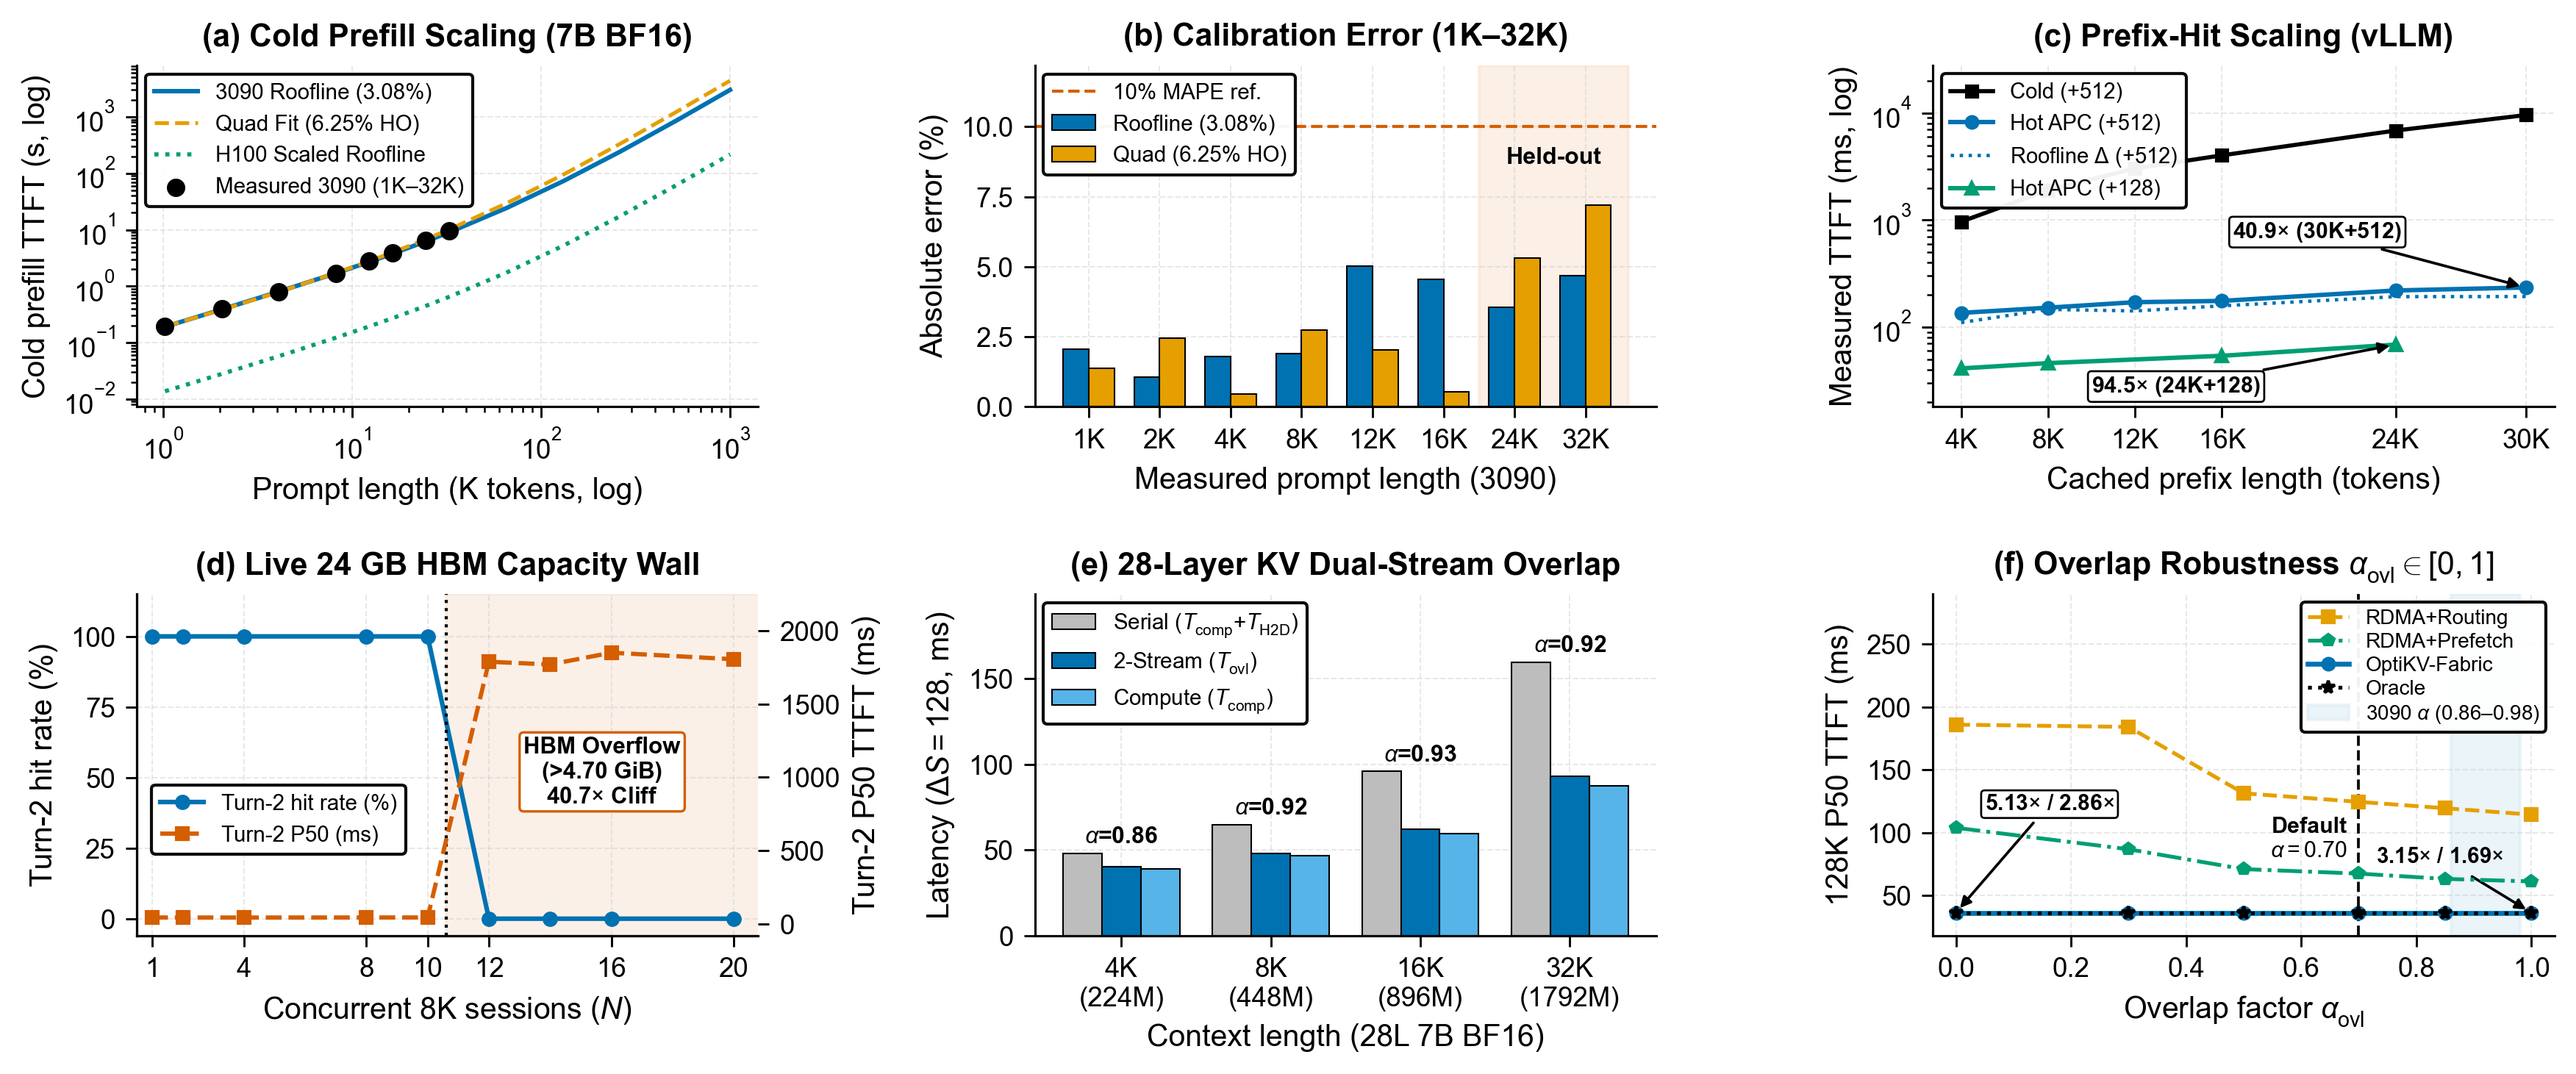
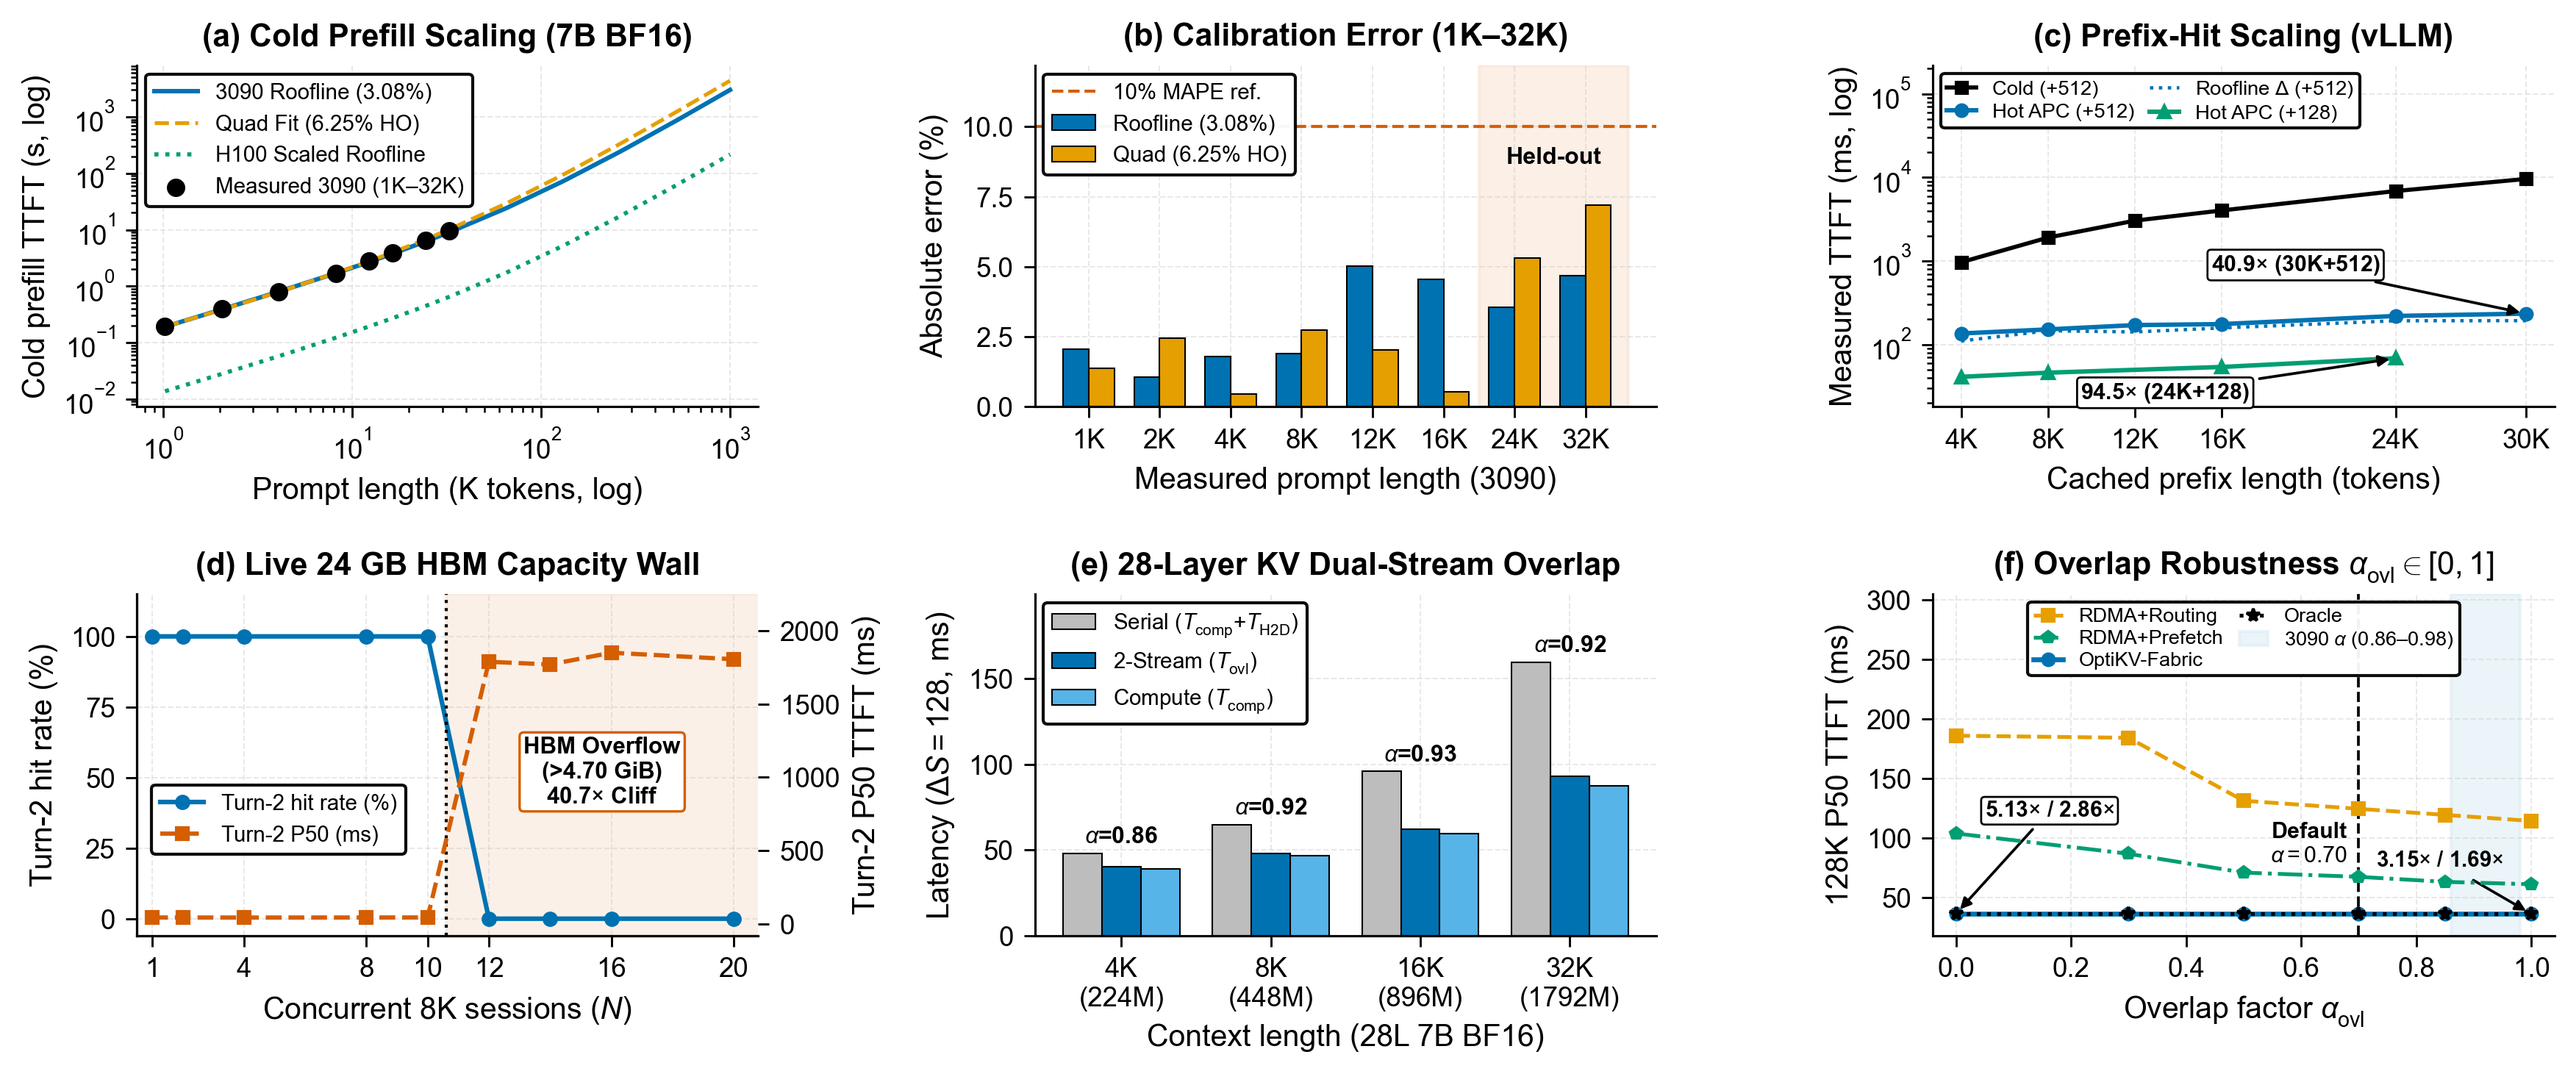
Clear Fig. 4(c) and 4(f) legends with compact 2-column top layout and expanded y headroom

diff --git a/scripts/make_publication_figures.py b/scripts/make_publication_figures.py
@@ -667,7 +667,7 @@ def make_fig3_calibration() -> None:
     ax.plot(s512["prefix_tokens"] / 1024.0, s512["roofline_hot_ms"], color=C_OPTIKV, ls=":", lw=1.1, label="Roofline $\\Delta$ (+512)")
     ax.plot(s128["prefix_tokens"] / 1024.0, s128["hot_ttft_ms"], color=C_RDMA_PF, marker="^", ms=4.0, lw=1.45, label="Hot APC (+128)")
     ax.set_yscale("log")
-    ax.set_ylim(18, 28000)
+    ax.set_ylim(18, 2.2e5)
     ax.set_xticks([4, 8, 12, 16, 24, 30], ["4K", "8K", "12K", "16K", "24K", "30K"])
     ax.set_xlabel("Cached prefix length (tokens)")
     ax.set_ylabel("Measured TTFT (ms, log)")
@@ -676,19 +676,22 @@ def make_fig3_calibration() -> None:
     p30 = s512[s512["prefix_tokens"] == 30720].iloc[0]
     ax.annotate(
         f"{p24['speedup']:.1f}$\\times$ (24K+128)",
-        xy=(24.0, p24["hot_ttft_ms"]), xytext=(10.0, 24.5),
+        xy=(24.0, p24["hot_ttft_ms"]), xytext=(9.5, 22.5),
         arrowprops=dict(arrowstyle="-|>", color=C_BLACK, lw=0.90),
         fontsize=7.3, fontweight="bold", color=C_BLACK,
         bbox=dict(boxstyle="round,pad=0.16", fc="#FFFFFF", ec=C_BLACK, lw=0.65),
     )
     ax.annotate(
         f"{p30['speedup']:.1f}$\\times$ (30K+512)",
-        xy=(30.0, p30["hot_ttft_ms"]), xytext=(16.5, 680.0),
+        xy=(30.0, p30["hot_ttft_ms"]), xytext=(15.5, 760.0),
         arrowprops=dict(arrowstyle="-|>", color=C_BLACK, lw=0.90),
         fontsize=7.3, fontweight="bold", color=C_BLACK,
         bbox=dict(boxstyle="round,pad=0.16", fc="#FFFFFF", ec=C_BLACK, lw=0.65),
     )
-    ax.legend(loc="upper left", fontsize=7.0)
+    ax.legend(
+        loc="upper left", ncol=2, fontsize=6.6,
+        columnspacing=0.75, handlelength=1.45, labelspacing=0.22, borderpad=0.30,
+    )
 
     # --- Panel (d) ---
     ax = axes[1, 0]
@@ -772,11 +775,14 @@ def make_fig3_calibration() -> None:
         fontsize=7.1, fontweight="bold", color=C_BLACK,
     )
     ax.set_xlim(-0.04, 1.04)
-    ax.set_ylim(18, 290)
+    ax.set_ylim(18, 305)
     ax.set_xlabel("Overlap factor $\\alpha_{\\mathrm{ovl}}$")
     ax.set_ylabel("128K P50 TTFT (ms)")
     ax.set_title("(f) Overlap Robustness $\\alpha_{\\mathrm{ovl}} \\in [0, 1]$", loc="center", fontsize=10.3)
-    ax.legend(loc="upper right", fontsize=6.7, ncol=1, labelspacing=0.22, borderpad=0.32)
+    ax.legend(
+        loc="upper center", ncol=2, fontsize=6.5,
+        columnspacing=0.80, handlelength=1.45, labelspacing=0.22, borderpad=0.30,
+    )
 
     fig.tight_layout()
     save_fig(fig, "fig3_prefill_model")
